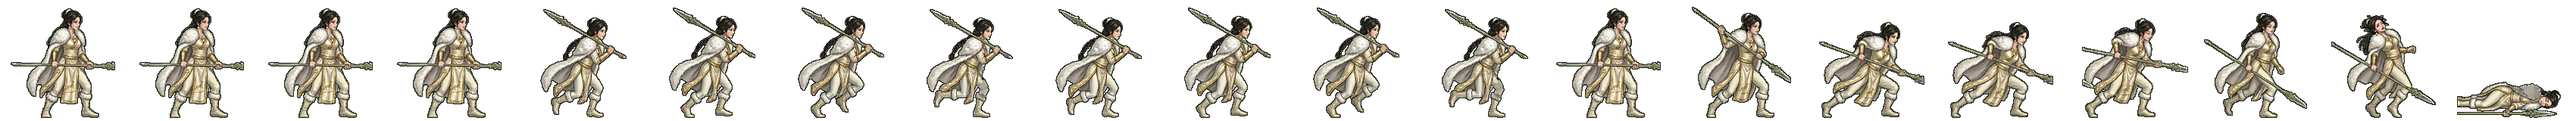
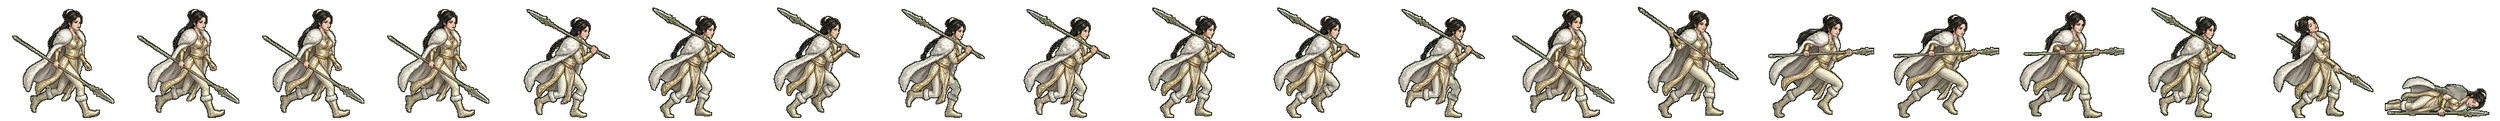
전투 띠 새로: nuri 동작 띠 다시 — 형이 구움 (굽기 꾸러미 · 검수 1·3번) (형 11-08)
Claude-Session: https://claude.ai/code/session_01TRiuNAG8xSjdmjCFpc8Rd5

Changed region(s): [[0.3745, 0.0625, 0.9988, 0.9688], [0.0, 0.0625, 0.3433, 0.9688], [0.4682, 0.9062, 0.4994, 0.9375]]

diff --git a/src/ui/realm/battle-strikes.ts b/src/ui/realm/battle-strikes.ts
@@ -143,7 +143,7 @@ const CONTACT: Readonly<Record<string, [number, number, number]>> = {
   'gen-haebi': [14, 0.87, 0.53], 'gen-heo': [14, 0.94, 0.46], 'gen-hyeokgeose': [14, 0.83, 0.94],
   'gen-hyeopbo': [14, .93, .21], 'gen-malgalgi': [14, 0.88, 0.28], 'gen-mari': [14, .98, .47],
   'gen-oi': [14, .98, .48], 'gen-onjo': [14, 0.83, 0.93], 'gen-soebi': [14, 0.80, 0.95],
-  'gen-soseono': [14, 0.92, 0.31], 'gen-maryeo': [14, 0.91, 0.79], 'gen-horselord': [14, 0.89, 0.25], 'gen-olddaeso': [14, 0.93, 0.91], 'gen-maro': [14, 0.97, 0.49], 'gen-gwaeyu': [14, 0.98, 0.71], 'gen-daemusin': [14, 0.91, 0.38], 'gen-tahae': [14, 0.91, 0.74], 'gen-ocheongan': [14, 0.82, 0.49], 'gen-yusugan': [14, 0.95, 0.70], 'gen-odogan': [14, 0.93, 0.28], 'gen-pidogan': [14, 0.94, 0.75], 'gen-yeodogan': [14, 0.93, 0.57], 'gen-adogan': [14, 0.95, 0.41], 'gen-musoe': [14, 0.94, 0.39], 'gen-suro': [14, 0.82, 0.53], 'gen-waechief': [14, 0.95, 0.68], 'gen-hojin': [14, 0.97, 0.64], 'gen-jita': [14, 0.94, 0.34], 'gen-guryema': [14, 0.89, 0.28], 'gen-jibaekho': [14, 0.97, 0.33], 'gen-sobeol': [14, 0.95, 0.33], 'gen-alpyeong': [14, 0.95, 0.54], 'gen-hogong': [14, 0.98, 0.27], 'gen-geumbawi': [14, 0.91, 0.92], 'gen-keundol': [14, 0.90, 0.68], 'gen-jinha': [14, 0.76, 0.93], 'gen-duman': [14, 0.97, 0.39], 'gen-gomok': [14, 0.94, 0.57], 'gen-hneoul': [14, 0.92, 0.27], 'gen-tneoul': [14, 0.84, 0.57], 'gen-sdallae': [14, 0.89, 0.29], 'gen-yucheongan': [14, 0.97, 0.64], 'gen-sincheongan': [14, 0.91, 0.71], 'gen-singwigan': [14, 0.91, 0.27], 'gen-mdallae': [14, 0.98, 0.30], 'gen-mulbeom': [14, 0.97, 0.36], 'gen-beomi': [14, 0.88, 0.43], 'gen-danbi': [14, 0.90, 0.30], 'gen-mulsae': [14, 0.93, 0.36], 'gen-darae': [14, 0.89, 0.29], 'gen-mir': [14, 0.91, 0.33], 'gen-wan': [14, 0.94, 0.30], 'gen-gom': [14, 0.94, 0.74], 'gen-sagong': [14, 0.79, 0.96], 'gen-halla': [14, 0.86, 0.46], 'gen-areum': [14, 0.86, 0.65], 'gen-dokmudeom': [14, 0.92, 0.29], 'gen-beom': [14, 0.98, 0.28], 'gen-baram': [14, 0.96, 0.24], 'gen-goeun': [14, 0.95, 0.66], 'gen-byeol': [14, 0.76, 0.96], 'gen-sinneoul': [14, 0.94, 0.33], 'gen-haesol': [14, 0.95, 0.39], 'gen-odi': [14, 0.95, 0.37], 'gen-irang': [14, 0.86, 0.30], 'gen-dalli': [14, 0.89, 0.32], 'gen-bakdal': [14, 0.94, 0.27], 'gen-noeul': [14, 0.88, 0.27], 'gen-maehwa': [14, 0.90, 0.31], 'gen-gaon': [14, 0.98, 0.48], 'gen-eomni': [14, 0.96, 0.42], 'gen-nuri': [14, 0.93, 0.66], 'gen-bira': [14, 0.88, 0.42], 'gen-gureum': [14, 0.98, 0.42],
+  'gen-soseono': [14, 0.92, 0.31], 'gen-maryeo': [14, 0.91, 0.79], 'gen-horselord': [14, 0.89, 0.25], 'gen-olddaeso': [14, 0.93, 0.91], 'gen-maro': [14, 0.97, 0.49], 'gen-gwaeyu': [14, 0.98, 0.71], 'gen-daemusin': [14, 0.91, 0.38], 'gen-tahae': [14, 0.91, 0.74], 'gen-ocheongan': [14, 0.82, 0.49], 'gen-yusugan': [14, 0.95, 0.70], 'gen-odogan': [14, 0.93, 0.28], 'gen-pidogan': [14, 0.94, 0.75], 'gen-yeodogan': [14, 0.93, 0.57], 'gen-adogan': [14, 0.95, 0.41], 'gen-musoe': [14, 0.94, 0.39], 'gen-suro': [14, 0.82, 0.53], 'gen-waechief': [14, 0.95, 0.68], 'gen-hojin': [14, 0.97, 0.64], 'gen-jita': [14, 0.94, 0.34], 'gen-guryema': [14, 0.89, 0.28], 'gen-jibaekho': [14, 0.97, 0.33], 'gen-sobeol': [14, 0.95, 0.33], 'gen-alpyeong': [14, 0.95, 0.54], 'gen-hogong': [14, 0.98, 0.27], 'gen-geumbawi': [14, 0.91, 0.92], 'gen-keundol': [14, 0.90, 0.68], 'gen-jinha': [14, 0.76, 0.93], 'gen-duman': [14, 0.97, 0.39], 'gen-gomok': [14, 0.94, 0.57], 'gen-hneoul': [14, 0.92, 0.27], 'gen-tneoul': [14, 0.84, 0.57], 'gen-sdallae': [14, 0.89, 0.29], 'gen-yucheongan': [14, 0.97, 0.64], 'gen-sincheongan': [14, 0.91, 0.71], 'gen-singwigan': [14, 0.91, 0.27], 'gen-mdallae': [14, 0.98, 0.30], 'gen-mulbeom': [14, 0.97, 0.36], 'gen-beomi': [14, 0.88, 0.43], 'gen-danbi': [14, 0.90, 0.30], 'gen-mulsae': [14, 0.93, 0.36], 'gen-darae': [14, 0.89, 0.29], 'gen-mir': [14, 0.91, 0.33], 'gen-wan': [14, 0.94, 0.30], 'gen-gom': [14, 0.94, 0.74], 'gen-sagong': [14, 0.79, 0.96], 'gen-halla': [14, 0.86, 0.46], 'gen-areum': [14, 0.86, 0.65], 'gen-dokmudeom': [14, 0.92, 0.29], 'gen-beom': [14, 0.98, 0.28], 'gen-baram': [14, 0.96, 0.24], 'gen-goeun': [14, 0.95, 0.66], 'gen-byeol': [14, 0.76, 0.96], 'gen-sinneoul': [14, 0.94, 0.33], 'gen-haesol': [14, 0.95, 0.39], 'gen-odi': [14, 0.95, 0.37], 'gen-irang': [14, 0.86, 0.30], 'gen-dalli': [14, 0.89, 0.32], 'gen-bakdal': [14, 0.94, 0.27], 'gen-noeul': [14, 0.88, 0.27], 'gen-maehwa': [14, 0.90, 0.31], 'gen-gaon': [14, 0.98, 0.48], 'gen-eomni': [14, 0.96, 0.42], 'gen-nuri': [14, 0.98, 0.42], 'gen-bira': [14, 0.88, 0.42], 'gen-gureum': [14, 0.98, 0.42],
   'gen-biryu': [14, 0.90, 0.35], 'gen-geumha': [14, 0.94, 0.61], 'gen-geota': [14, 0.86, 0.47], 'gen-soebo': [14, 0.87, 0.57],
   'gen-gaennae': [14, 249 / 264, 47 / 160],
   'gen-budeul': [14, 266 / 280, 51 / 160],

diff --git a/src/realm/data/art.ts b/src/realm/data/art.ts
@@ -515,7 +515,7 @@ export const GEN_ANIM: Readonly<Partial<Record<string, { ar: number; body: numbe
   maehwa: { ar: 143 / 160, body: 0.894, bow: true }, // 11-08 초상대로 다시 (형: 「투구 쓰고 원본과 다르다」 · 제미나이 걷기 4×2 + 동작 4×2 → 20컷 · assets_src/realm/gemini/generals2) · 11-08 처음 · 깃 머리띠·짙은 붉은 짧은 저고리·꿩깃 화살통·맥궁
   gaon: { ar: 151 / 160, body: 0.900 }, // 11-08 초상대로 다시 (형: 「투구 쓰고 원본과 다르다」 · 제미나이 걷기 4×2 + 동작 4×2 → 20컷 · assets_src/realm/gemini/generals2) · 11-08 처음 · 가온 동작 띠 다시 — 창을 두 손으로 잡고 찌른다 (흰 깃털 조각 없앰 · 4번 칸은 창이 칸 밖이라 3번으로 · 검수 1번)
   eomni: { ar: 159 / 160, body: 0.900 }, // 11-08 초상대로 다시 (형: 「투구 쓰고 원본과 다르다」 · 제미나이 걷기 4×2 + 동작 4×2 → 20컷 · assets_src/realm/gemini/generals2) · 11-08 처음 · 땋은 머리·검은 곰 털 망토·짧은 흰 윗옷·이빨 목걸이·쇠 창 찌르기 · 걷기는 창을 어깨에 멘 아랫줄만
-  nuri: { ar: 170 / 160, body: 0.894 }, // 11-08 초상대로 다시 (형: 「투구 쓰고 원본과 다르다」 · 제미나이 걷기 4×2 + 동작 4×2 → 20컷 · assets_src/realm/gemini/generals2) · 11-08 처음 · 구가 누리 동작 다시 — 창을 두 손으로 잡고 아래로 찌른다 (빈 주먹·창날 없는 찌르기 고침 · 제미나이 u/2 · 11-09 띠 검수)
+  nuri: { ar: 165 / 160, body: 0.894 }, // 11-08 초상대로 다시 (형: 「투구 쓰고 원본과 다르다」 · 제미나이 걷기 4×2 + 동작 4×2 → 20컷 · assets_src/realm/gemini/generals2) · 11-08 처음 · nuri 동작 띠 다시 — 형이 구움 (굽기 꾸러미 · 검수 1·3번)
   bira: { ar: 172 / 160, body: 0.900 }, // 11-08 초상대로 다시 (형: 「투구 쓰고 원본과 다르다」 · 제미나이 걷기 4×2 + 동작 4×2 → 20컷 · assets_src/realm/gemini/generals2) · 11-08 처음 · bira 동작 띠 다시 — 형이 구움 (굽기 꾸러미 · 검수 1·3번)
   soenun: { ar: 280 / 160, body: 0.9375 }, // 11-08 쇠눈 · 제미나이 u/2 2×2(겨눔·찌르기·거둠·피격) + 새 대화 쓰러짐 · 갯내 4실보행 하체(짙은 바지 · 걷는 동안 쇠 정강이받이는 장화로 보인다) · 창 자루는 걷기에도 남긴다
   odi: { ar: 155 / 160, body: 0.906 }, // 11-08 초상대로 다시 (형: 「투구 쓰고 원본과 다르다」 · 제미나이 걷기 4×2 + 동작 4×2 → 20컷 · assets_src/realm/gemini/generals2) · 11-08 처음 · 오디 동작 띠 다시 — 창 가운데를 두 손으로 잡고 창날이 보이게 찌른다 (SPEAR 절 · 검수 1번)
